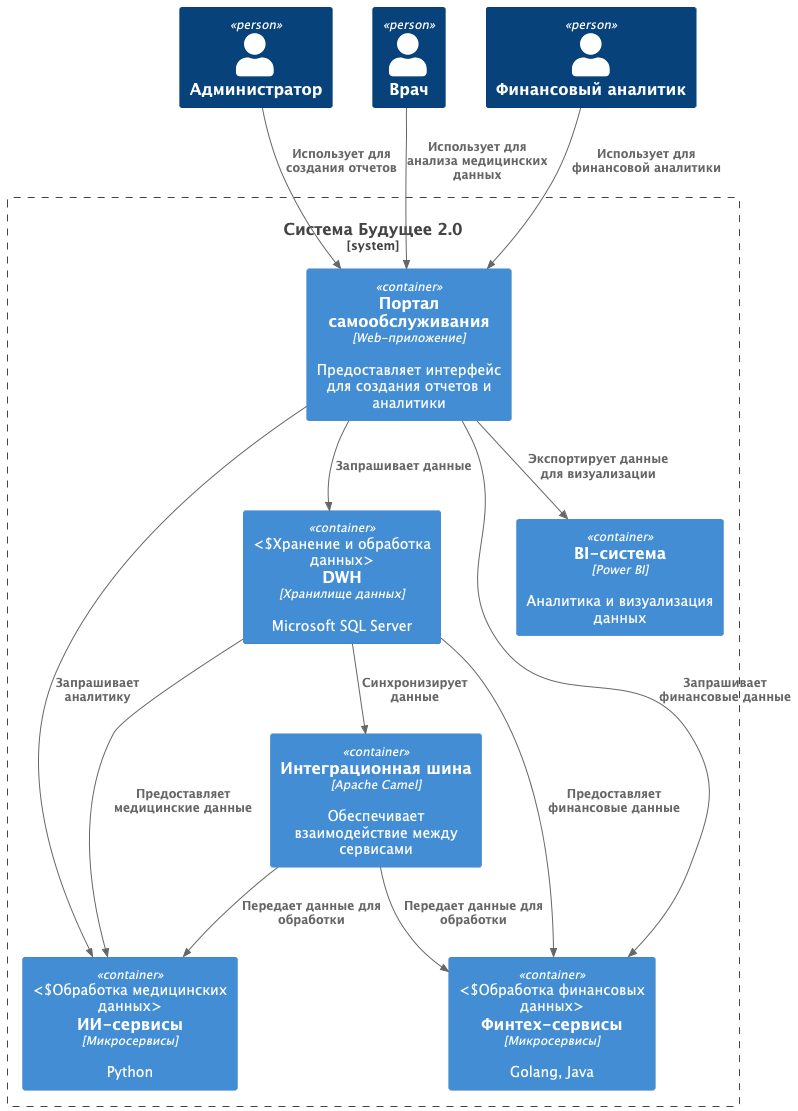
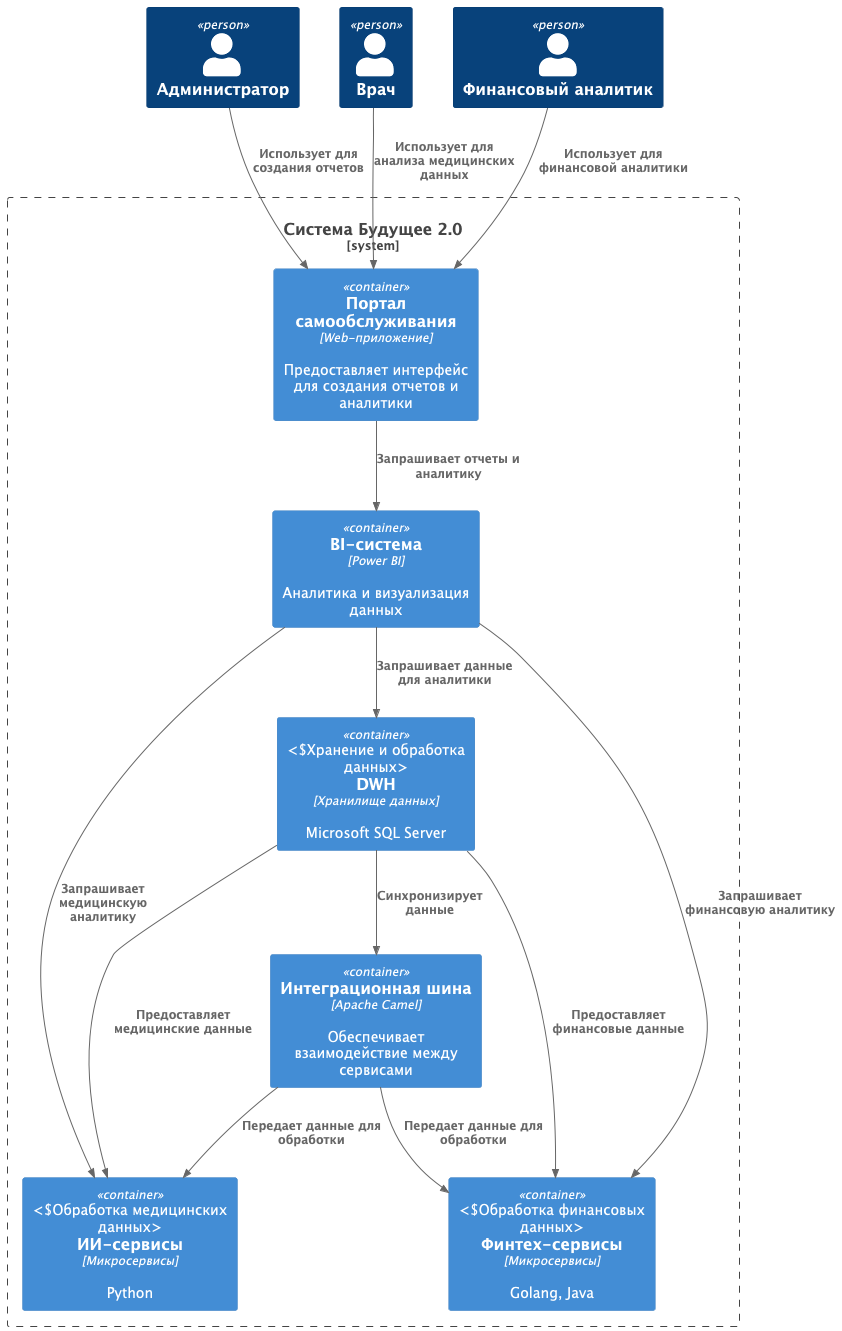
review

Changed region(s): [[0.0, 0.0, 0.9925, 1.0], [0.812, 0.7957, 0.8421, 0.8263], [0.7519, 0.6121, 0.782, 0.6427]]

diff --git a/Exc1/problems.md b/Exc1/problems.md
@@ -1,15 +1,15 @@
 # Проблемные места и их приоритизация
 
-| Категория	                  | Проблема	                                 | Описание	                                                                                                                                                                                | Приоритет      |
-|-----------------------------|-------------------------------------------|------------------------------------------------------------------------------------------------------------------------------------------------------------------------------------------|----------------|
-| Данные и производительность | 	Медленная обработка данных в DWH         | 	Текущее хранилище данных (DWH) на базе Microsoft SQL Server 2008 года не справляется с объемами данных (сотни терабайт), что приводит к задержкам в построении отчетов (часы ожидания). | 	Must have     |
-| Интеграция                  | 	Сложность интеграции новых бизнесов	     | Добавление новых бизнесов (фармацевтические компании, производители медицинского оборудования) требует значительных усилий по интеграции и дописывания бизнес-логики в DWH.	             | Must have      |
-| Архитектура                 | 	Устаревшие технологии                    | 	Использование устаревших технологий (Power Builder, Apache Camel) затрудняет масштабирование и поддержку системы.	                                                                      | Should have    |
-| Безопасность                | 	Управление доступом к данным             | 	Отсутствие четкой системы управления доступом к данным может привести к утечкам конфиденциальной информации, особенно в медицинских и финансовых данных.                                | 	Must have     |
-| Аналитика                   | 	Отсутствие гибкости в отчетах            | 	Текущая BI-система не позволяет бизнес-пользователям самостоятельно создавать отчеты, что замедляет процесс принятия решений.                                                           | 	Should have   |
-| Масштабируемость            | 	Ограниченная масштабируемость DWH        | 	Текущая архитектура DWH не позволяет легко масштабироваться при добавлении новых бизнесов или увеличении объемов данных.                                                                | 	Must have     |
-| Производительность          | 	Низкая производительность ИИ-сервисов    | 	ИИ-сервисы на Python могут не справляться с растущими объемами медицинских данных, что замедляет обработку и анализ.                                                                    | 	Should have   |
-| Интеграция                  | 	Сложность взаимодействия между сервисами | 	Интеграционная шина на базе Apache Camel может не справляться с растущим количеством взаимодействий между сервисами, что приводит к задержкам.	                                         | Could have     |
-| Управление данными          | 	Отсутствие единой витрины данных         | 	Бизнесу сложно получить единую картину по всем направлениям из-за отсутствия централизованной витрины данных.	                                                                          | Must have      |
-| Технический долг            | 	Легаси-системы                           | 	Наличие устаревших систем (Power Builder, SQL Server 2008) увеличивает технический долг и затрудняет поддержку.                                                                         | 	Should have   |
+| Категория	                  | Проблема	                                 | Описание	                                                                                                                                                                                | Приоритет    |
+|-----------------------------|-------------------------------------------|------------------------------------------------------------------------------------------------------------------------------------------------------------------------------------------|--------------|
+| Данные и производительность | 	Медленная обработка данных в DWH         | 	Текущее хранилище данных (DWH) на базе Microsoft SQL Server 2008 года не справляется с объемами данных (сотни терабайт), что приводит к задержкам в построении отчетов (часы ожидания). | 	Must have   |
+| Интеграция                  | 	Сложность интеграции новых бизнесов	     | Добавление новых бизнесов (фармацевтические компании, производители медицинского оборудования) требует значительных усилий по интеграции и дописывания бизнес-логики в DWH.	             | Must have    |
+| Архитектура                 | 	Устаревшие технологии                    | 	Использование устаревших технологий (Power Builder) затрудняет масштабирование и поддержку системы.	                                                                                    | Should have  |
+| Безопасность                | 	Управление доступом к данным             | 	Отсутствие четкой системы управления доступом к данным может привести к утечкам конфиденциальной информации, особенно в медицинских и финансовых данных.                                | 	Must have   |
+| Аналитика                   | 	Отсутствие гибкости в отчетах            | 	Текущая BI-система не позволяет бизнес-пользователям самостоятельно создавать отчеты, что замедляет процесс принятия решений.                                                           | 	Should have |
+| Масштабируемость            | 	Ограниченная масштабируемость DWH        | 	Текущая архитектура DWH не позволяет легко масштабироваться при добавлении новых бизнесов или увеличении объемов данных.                                                                | 	Must have   |
+| Производительность          | 	Низкая производительность ИИ-сервисов    | 	ИИ-сервисы на Python могут не справляться с растущими объемами медицинских данных, что замедляет обработку и анализ.                                                                    | 	Should have |
+| Интеграция                  | 	Сложность взаимодействия между сервисами | 	Интеграционная шина на базе Apache Camel может не справляться с растущим количеством взаимодействий между сервисами, что приводит к задержкам.	                                         | Could have   |
+| Управление данными          | 	Отсутствие единой витрины данных         | 	Бизнесу сложно получить единую картину по всем направлениям из-за отсутствия централизованной витрины данных.	                                                                          | Must have    |
+| Технический долг            | 	Легаси-системы                           | 	Наличие устаревших систем (Power Builder, SQL Server 2008) увеличивает технический долг и затрудняет поддержку.                                                                         | 	Should have |
 
